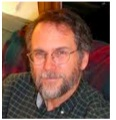
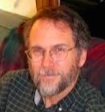
fix cropping on faculty pics

diff --git a/index.md b/index.md
@@ -146,9 +146,8 @@ Grappa is a project group in the [Sampa Group](http://sampa.cs.washington.edu) a
   while(x=eval(x));
   //-->
   //]]>
-</script> 
-
-or join or mailing list to be informed about software releases:
+</script>
+or join our mailing list to be informed about software releases:
 
 <!-- Begin MailChimp Signup Form -->
 <link href="//cdn-images.mailchimp.com/embedcode/slim-081711.css" rel="stylesheet" type="text/css" />
